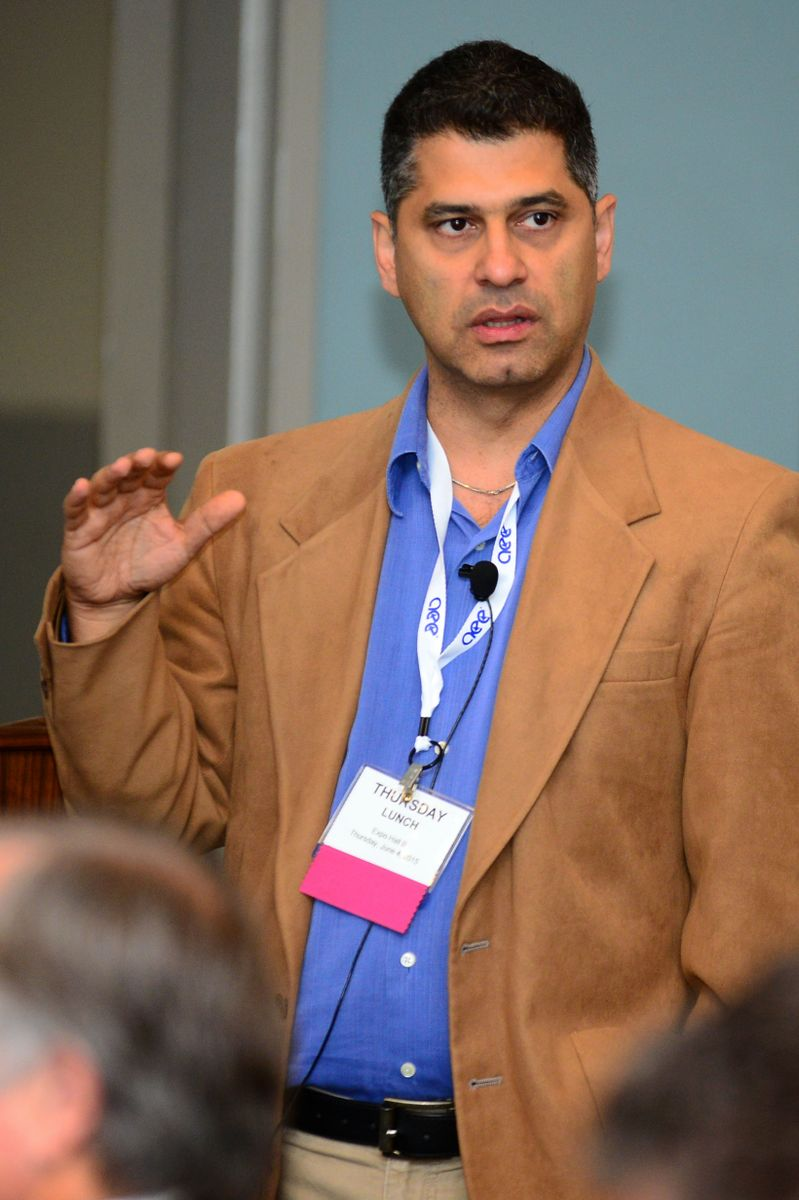
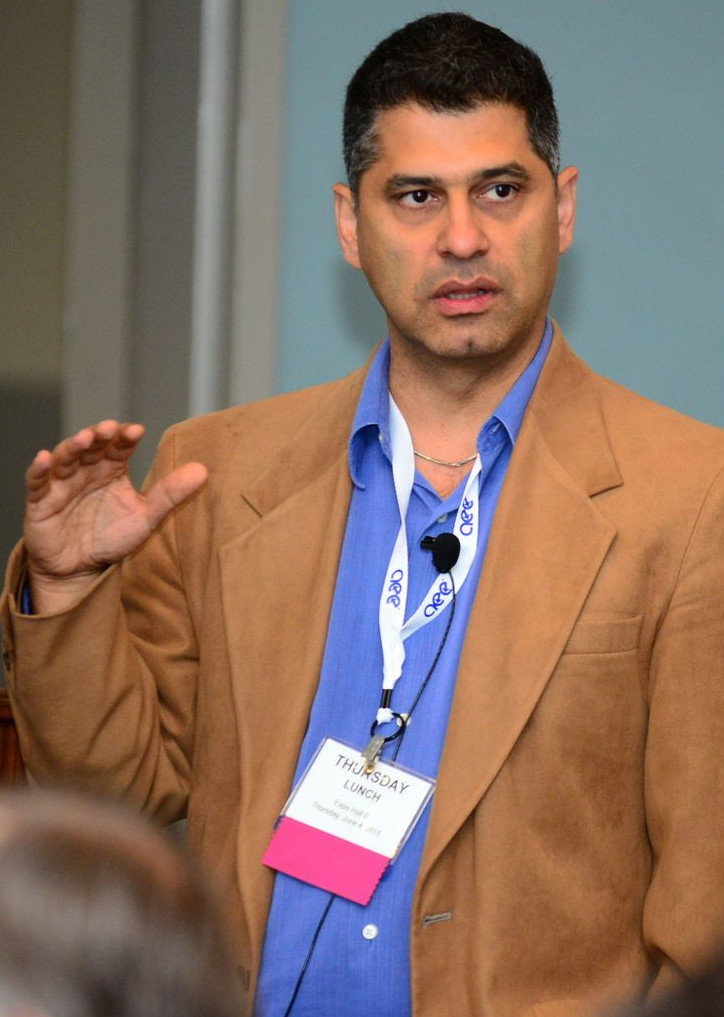
resizes images to uniformity

diff --git a/droplet-full/index.html b/droplet-full/index.html
@@ -47,7 +47,7 @@
 					<span class="icon-bar"></span>
 				</button>
 				<a class="navbar-brand" href="#body">
-					<h3>DROPLETS 2017: 24-26 JULY</h3><!-- <img src="assets/img/logo-dark3.png" alt=""> -->
+					<h3>DROPLETS 2017</h3><!-- <img src="assets/img/logo-dark3.png" alt=""> -->
 				</a>
 			</div>
 			<!-- Collect the nav links, forms, and other content for toggling -->
@@ -97,20 +97,16 @@
 	<div class="bg-color-white text-center g-heading-v7 promo" id="home">
 		<h2 class="h2">WELCOME TO DROPLETS 2017</h2>
 		<div class="row g-mb-40">
-				<div class="col-sm-8 col-sm-offset-2">
-					<h3>JULY 24-26, 2017 </h3>
-					<h3>UCLA, Los Angeles, CA, USA </h3>
-				</div>
+			<div class="col-sm-8 col-sm-offset-2">
+				<h3>JULY 24-26, 2017 </h3>
+				<h3>UCLA, Los Angeles, CA, USA </h3>
 			</div>
-  	<div class="row g-mb-30">
 			<div class="col-sm-8 col-sm-offset-2 text-left">
-  			<p>Liquid droplets are of prime importance for many natural phenomena as well as for a broad variety of industrial processes.&nbsp;The aim of the 3-day international workshop <strong>Droplets 2017</strong> is to bring together researchers working on droplets in the broad sense: from pure to complex fluids, from impact to evaporation and solidification, covering experimental, theoretical, and industrial perspectives. The workshop builds upon the successful <strong>Droplets 2013</strong> workshop held in Marseille and <strong>Droplets 2015</strong> workshop held in University of Twente. This year's workshop will consist of plenary keynotes lectures, oral presentations, poster presentations, and brainstorm sessions. The program will be shaped to stimulate group discussions and informal exchanges.</p>
-  		</div>
-  	</div>
-  	<div class="row">
-  		<div class="col-sm-8 col-sm-offset-2 text-center">
-	  		<h2 class="h2">FOCUS AREAS</h2>
-	  		<div class="text-left">
+				<p>Liquid droplets are of prime importance for many natural phenomena as well as for a broad variety of industrial processes.&nbsp;The aim of the 3-day international workshop <strong>Droplets 2017</strong> is to bring together researchers working on droplets in the broad sense: from pure to complex fluids, from impact to evaporation and solidification, covering experimental, theoretical, and industrial perspectives. The workshop builds upon the successful <strong>Droplets 2013</strong> workshop held in Marseille and <strong>Droplets 2015</strong> workshop held in University of Twente. This year's workshop will consist of plenary keynotes lectures, oral presentations, poster presentations, and brainstorm sessions. The program will be shaped to stimulate group discussions and informal exchanges.</p>
+			</div>
+	  		<div class="col-sm-8 col-sm-offset-2 text-center">
+		  		<h2 class="h2">FOCUS AREAS</h2>
+		  		<div class="text-left">
 					<ul>
 						<li>Droplet Impact</li>
 						<li>Drop Coalescence</li>
@@ -122,11 +118,9 @@
 					</ul>
 				</div>
 			</div>
-  	</div>
-  	<div class="row">
-  		<div class="col-sm-8 col-sm-offset-2 text-center">
-	  		<h2 class="h2">IMPORTANT DATES</h2>
-	  		<div class="text-left">
+			<div class="col-sm-8 col-sm-offset-2 text-center">
+		  		<h2 class="h2">IMPORTANT DATES</h2>
+		  		<div class="text-left">
 					<table style="height: 65px;" width="600">
 						<tbody>
 							<tr>
@@ -152,7 +146,7 @@
 					<h3>Link for abstract submission is coming soon.</h3>
 				</div>
 			</div>
-  	</div>
+		</div>
 	</div>
 	<!-- End About Us Block -->
 
@@ -200,7 +194,7 @@
 	            <!-- End Team v2 -->
 
 	            <!-- Team v2 -->
-	            <div class="col-md-2 col-sm-4 col-xs-4">
+	            <div class="col-md-2 col-sm-4 col-xs-4 col-sm-offset-2 col-xs-offset-2">
 	                <div class="team-v2">
 	                    <img class="img-responsive" src="assets/img/Stebe.jpg" alt="">
 	                    <div class="inner-team">
@@ -224,10 +218,10 @@
 	            <!-- End Team v2 -->
 	        </div>
 	        <div class="row g-mb-30">
-						<div class="col-sm-8 col-sm-offset-2">
-							<h3 class="color-light">More to come...</h3>
-						</div>
-					</div>
+				<div class="col-sm-8 col-sm-offset-2">
+					<h3 class="color-light">More to come...</h3>
+				</div>
+			</div>
 	    </div>
 	</div>
 	<!--=== End Team v2 ===-->
@@ -237,9 +231,9 @@
 	<div class="bg-color-light text-center g-heading-v7" id="committee">
 	    <div class="container">
 	    	<h2 class="h2">Conference organizers</h2>
-	        <div class="row">
-	            <!-- Team v2 -->
-	            <div class="col-md-3 col-sm-4 col-xs-4">
+            <!-- Team v2 -->
+            <div class="row">
+	            <div class="col-md-3 col-sm-6 col-xs-6">
 	                <div class="team-v2 ">
 	                    <img class="img-responsive" src="assets/img/Kavehpour.jpg" alt="">
 	                    <div class="inner-team">
@@ -249,21 +243,8 @@
 	                </div>
 	            </div>
 	            <!-- End Team v2 -->
-
 	            <!-- Team v2 -->
-	            <div class="col-md-3 col-sm-4 col-xs-4">
-	                <div class="team-v2">
-	                    <img class="img-responsive" src="assets/img/Kim.jpg" alt="">
-	                    <div class="inner-team">
-	                        <h4>Prof. C-J Kim</h4>
-	                        <small class="color-red">UCLA</small>
-	                    </div>
-	                </div>
-	            </div>
-	            <!-- End Team v2 -->
-
-	            <!-- Team v2 -->
-	            <div class="col-md-3 col-sm-4 col-xs-4">
+	            <div class="col-md-3 col-sm-6 col-xs-6">
 	                <div class="team-v2">
 	                    <img class="img-responsive" src="assets/img/Rothstein.jpg" alt="">
 	                    <div class="inner-team">
@@ -273,9 +254,19 @@
 	                </div>
 	            </div>
 	            <!-- End Team v2 -->
-
 	            <!-- Team v2 -->
-	            <div class="col-md-3 col-sm-4 col-xs-4">
+	            <div class="col-md-3 col-sm-6 col-xs-6">
+	                <div class="team-v2">
+	                    <img class="img-responsive" src="assets/img/Kim.jpg" alt="">
+	                    <div class="inner-team">
+	                        <h4>Prof. C-J Kim</h4>
+	                        <small class="color-red">UCLA</small>
+	                    </div>
+	                </div>
+	            </div>
+	            <!-- End Team v2 -->
+	            <!-- Team v2 -->
+	            <div class="col-md-3 col-sm-6 col-xs-6">
 	                <div class="team-v2">
 	                    <img class="img-responsive" src="assets/img/Tang.jpg" alt="">
 	                    <div class="inner-team">
@@ -284,7 +275,6 @@
 	                    </div>
 	                </div>
 	            </div>
-	            <!-- End Team v2 -->
 	        </div>
 	    </div>
 	</div>
@@ -315,58 +305,55 @@
   <div class="g-section-bg-gray text-center g-pt-60 g-pb-70 g-heading-v7" id="registration">
   	<div class="container">
   		<h2 class="h2">ON-LINE REGISTRATION</h2>
+		<div class="row g-mb-40">
+			<div class="col-sm-8 col-sm-offset-2">
+				<p>Link coming soon.</p>
+			</div>
+		</div>
+		<h2>REGISTRATION FEES</h2>
+		<div class="col-sm-8 col-sm-offset-2 text-left">
 			<div class="row g-mb-40">
-				<div class="col-sm-8 col-sm-offset-2">
-					<p>Link coming soon.</p>
-				</div>
+				<p>Early registration is possible until March 1st. Late registration from March 2nd until July 23rd.</p>
+				<table style="height: 65px;" width="408">
+					<tbody>
+						<tr>
+						<td><strong>Attendee</strong></td>
+						<td><strong>Early</strong></td>
+						<td><strong>Late</strong></td>
+						</tr>
+						<tr>
+						<td>Full conference fee</td>
+						<td>$600</td>
+						<td>$750</td>
+						</tr>
+						<tr>
+						<td>Student full conference fee</td>
+						<td>$300</td>
+						<td>$600</td>
+						</tr>
+					</tbody>
+				</table>
+				<p>The registration fee includes:</p>
+				<ul>
+				<li>Attendance to the program</li>
+				<li>Conference bag with program booklet and USB-stick</li>
+				<li>Lunches, coffee and tea breaks including drinks during the poster sessions</li>
+				<li>Reception Dinner on July 24</li>
+				</ul>
 			</div>
-			<div class="row">
-				<h2>REGISTRATION FEES</h2>
-				<div class="col-sm-8 col-sm-offset-2 text-left">
-					<div class="row g-mb-40">
-						<p>Early registration is possible until March 1st. Late registration from March 2nd until July 23rd.</p>
-						<table style="height: 65px;" width="408">
-							<tbody>
-								<tr>
-								<td><strong>Attendee</strong></td>
-								<td><strong>Early</strong></td>
-								<td><strong>Late</strong></td>
-								</tr>
-								<tr>
-								<td>Full conference fee</td>
-								<td>$600</td>
-								<td>$750</td>
-								</tr>
-								<tr>
-								<td>Student full conference fee</td>
-								<td>$300</td>
-								<td>$600</td>
-								</tr>
-							</tbody>
-						</table>
-						<p>The registration fee includes:</p>
-						<ul>
-						<li>Attendance to the program</li>
-						<li>Conference bag with program booklet and USB-stick</li>
-						<li>Lunches, coffee and tea breaks including drinks during the poster sessions</li>
-						<li>Reception Dinner on July 24</li>
-						</ul>
-					</div>
-					<div class="row g-mb-40">
-						<h3>Students</h3>
-						<p>Students should send a proof of their student status (e.g. signed statement from your Department head or supervisor). Post-doctoral researchers do not count as students.</p>
-					</div>
-					<div class="row g-mb-40">
-						<h3>Confirmation</h3>
-						<p>You will receive immediately a confirmation (PDF) per e-mail of your registration data. &nbsp;Your confirmation ID-number is mentioned on this confirmation; you will need this for all correspondence with the secretariat.&nbsp;</p>
-					</div>
-					<div class="row g-mb-40">
-					<h3>Letter of invitation</h3>
-					<p>A letter of invitation can be obtained after your registration process has been completed. Contact us&nbsp;with your request. The letter will be sent to you by e-mail as a PDF file.</p>
-					</div>
-				</div>
+			<div class="row g-mb-40">
+				<h3>Students</h3>
+				<p>Students should send a proof of their student status (e.g. signed statement from your Department head or supervisor). Post-doctoral researchers do not count as students.</p>
 			</div>
-			<!-- <button type="submit" class="btn-u btn-u-lg btn-u-red btn-u-upper">Send Your Resume</button> -->
+			<div class="row g-mb-40">
+				<h3>Confirmation</h3>
+				<p>You will receive immediately a confirmation (PDF) per e-mail of your registration data. &nbsp;Your confirmation ID-number is mentioned on this confirmation; you will need this for all correspondence with the secretariat.&nbsp;</p>
+			</div>
+			<div class="row g-mb-40">
+				<h3>Letter of invitation</h3>
+				<p>A letter of invitation can be obtained after your registration process has been completed. Contact us&nbsp;with your request. The letter will be sent to you by e-mail as a PDF file.</p>
+			</div>
+		</div>
   	</div>
   </div>
   <!-- END Join Our Team -->
@@ -381,88 +368,46 @@
 			</div>
 		</div>
 		<div class="container text-left g-pt-80 g-pb-70">
-			<div class="row">
-				<div class="col-sm-8 col-sm-offset-2">
-					<div class="row g-mb-40">
-						<h3>Hotel accommodation</h3>
-						<p>The best rates for hotels is provided by Luskin Center. It is highly recommended that attendants used the recommended hotel.&nbsp;<a href="http://luskinconferencecenter.ucla.edu/hotels-near-ucla/rooms/" target="_blank">Click here</a> to go to the Luskin Conference Center's booking site.</p>
-					</div>
-					<div class="row g-mb-40">
-						<h3>Travel information</h3>
-						<p>Parking information can also be found at the <a href="http://luskinconferencecenter.ucla.edu/about/campus-map-parking/">Luskin Center's site</a>.</p>
-					</div>
-      	</div>
-      </div>
-  	</div>
-	  <!-- GMaps -->
-	  <div class="GMap-stand-alone" id="map"></div>
-	  <!-- END GMaps -->
-
+			<div class="col-sm-8 col-sm-offset-2">
+				<div class="row g-mb-40">
+					<h3>Hotel accommodation</h3>
+					<p>The best rates for hotels is provided by Luskin Center. It is highly recommended that attendants used the recommended hotel.&nbsp;<a href="http://luskinconferencecenter.ucla.edu/hotels-near-ucla/rooms/" target="_blank">Click here</a> to go to the Luskin Conference Center's booking site.</p>
+				</div>
+				<div class="row g-mb-40">
+					<h3>Travel information</h3>
+					<p>Parking information can also be found at the <a href="http://luskinconferencecenter.ucla.edu/about/campus-map-parking/">Luskin Center's site</a>.</p>
+				</div>
+      		</div>
+  		</div>
+		<!-- GMaps -->
+		<div class="GMap-stand-alone" id="map"></div>
+		<!-- END GMaps -->
 	</div>
-	<!-- End Testimonials & Clients -->
 
 	<!-- Contacts -->
-  <div class="contacts-v4 text-center g-heading-v7 equal-height-columns" id="contact">
-  	<div class="container g-pt-30 g-pb-30">
-  		<h2 class="h2">Contact information</h2>
+	<div class="contacts-v4 text-center g-heading-v7 equal-height-columns" id="contact">
+	  	<div class="container g-pt-30 g-pb-30">
+	  		<h2 class="h2">Contact information</h2>
   			<div class="row">
-					<div class="col-sm-8 col-sm-offset-2">
-							For more information, please contact Prof. Pirouz Kavehpour: <a href="mailto:pirouz@seas.ucla.edu" target="_blank">pirouz@seas.ucla.edu</a>
+				<div class="col-sm-8 col-sm-offset-2">
+					<p>For more information, please contact Prof. Pirouz Kavehpour: <a href="mailto:pirouz@seas.ucla.edu" target="_blank">pirouz@seas.ucla.edu</a></p>
+        		</div>
         	</div>
-        </div>
-  	</div>
-	        
-		<!-- <div class="row">
-  		<div class="col-sm-3 contacts-v4-info contacts-v4-info--dark equal-height-column">
-  			<i class="icon-line icon-map icon-v4 g-mb-30"></i>
-  			<div>
-					<em>Address</em>
-					<strong>In sed lectus tincidunt</strong>
-				</div>
   		</div>
-  		<div class="col-sm-3 contacts-v4-info equal-height-column">
-  			<i class="icon-line icon-screen-smartphone icon-v4 g-mb-30"></i>
-  			<div>
-					<em>Phone Number</em>
-					<strong>+48 555 2566 112</strong>
-				</div>
-  		</div>
-  		<div class="col-sm-3 contacts-v4-info contacts-v4-info--dark equal-height-column">
-  			<i class="icon-line icon-envelope-letter icon-v4 g-mb-30"></i>
-  			<div>
-					<em>Email</em>
-					<strong><a href="mailto:info@htmlstream.com">info@htmlstream.com</a></strong>
-				</div>
-  		</div>
-  		<div class="col-sm-3 contacts-v4-info equal-height-column">
-  			<i class="icon-line icon-call-in icon-v4 g-mb-30"></i>
-  			<div>
-					<em>Call Free</em>
-					<strong>+48 555 1258 987</strong>
-				</div>
-  		</div>
-  	</div> -->
-  </div>
-	<!-- End Contacts -->
-
-
-
+	</div>
+	
 	<!-- Footer 9 -->
 	<div class="footer-v9 text-center">
-	<div class="container">
-		<div class="page-scroll">
-			<a href="#body" class="footer-logo">
-				<h2 class="h2">Droplets 2017</h2>
-			</a>
+		<div class="container">
+			<div class="page-scroll">
+				<a href="#body" class="footer-logo">
+					<h2 class="h2">Droplets 2017</h2>
+				</a>
+			</div>
+			<div class="g-mb-35">
+				<p>Website design by <a href="http://www.github.com/jtvanlew"> Jon T. Van Lew</a></p>
+			</div>
 		</div>
-		<div class="g-mb-35">Website design by <a href="http://www.github.com/jtvanlew"> Jon T. Van Lew</a></div>
-		<!-- <ul class="g-social-icons-v2 g-mb-30">
-			<li><a href="#"><i class="fa fa-twitter"></i></a></li>
-			<li><a href="#"><i class="fa fa-pinterest"></i></a></li>
-			<li><a href="#"><i class="fa fa-facebook"></i></a></li>
-			<li><a href="#"><i class="fa fa-linkedin"></i></a></li>
-		</ul> -->
-	</div>
 	</div>
 	<!-- End Footer 9 -->
 

diff --git a/droplet-full/assets/css/custom.css b/droplet-full/assets/css/custom.css
@@ -1,6 +1,6 @@
 /* Add here all your css styles (customizations) */
 .bg-color-dark .h2{ color: #f7f7f7;}
-.col-md-10, .col-md-11, .col-md-12, .col-sm-10, .col-sm-11, .col-sm-12, .col-sm-9, .col-xs-1, .col-xs-10, .col-xs-11, .col-xs-12 {
-    margin-left: 15px;
-    margin-right: 15px;
+.row {
+    margin-right: 0px;
+    margin-left: 0px;
 }
